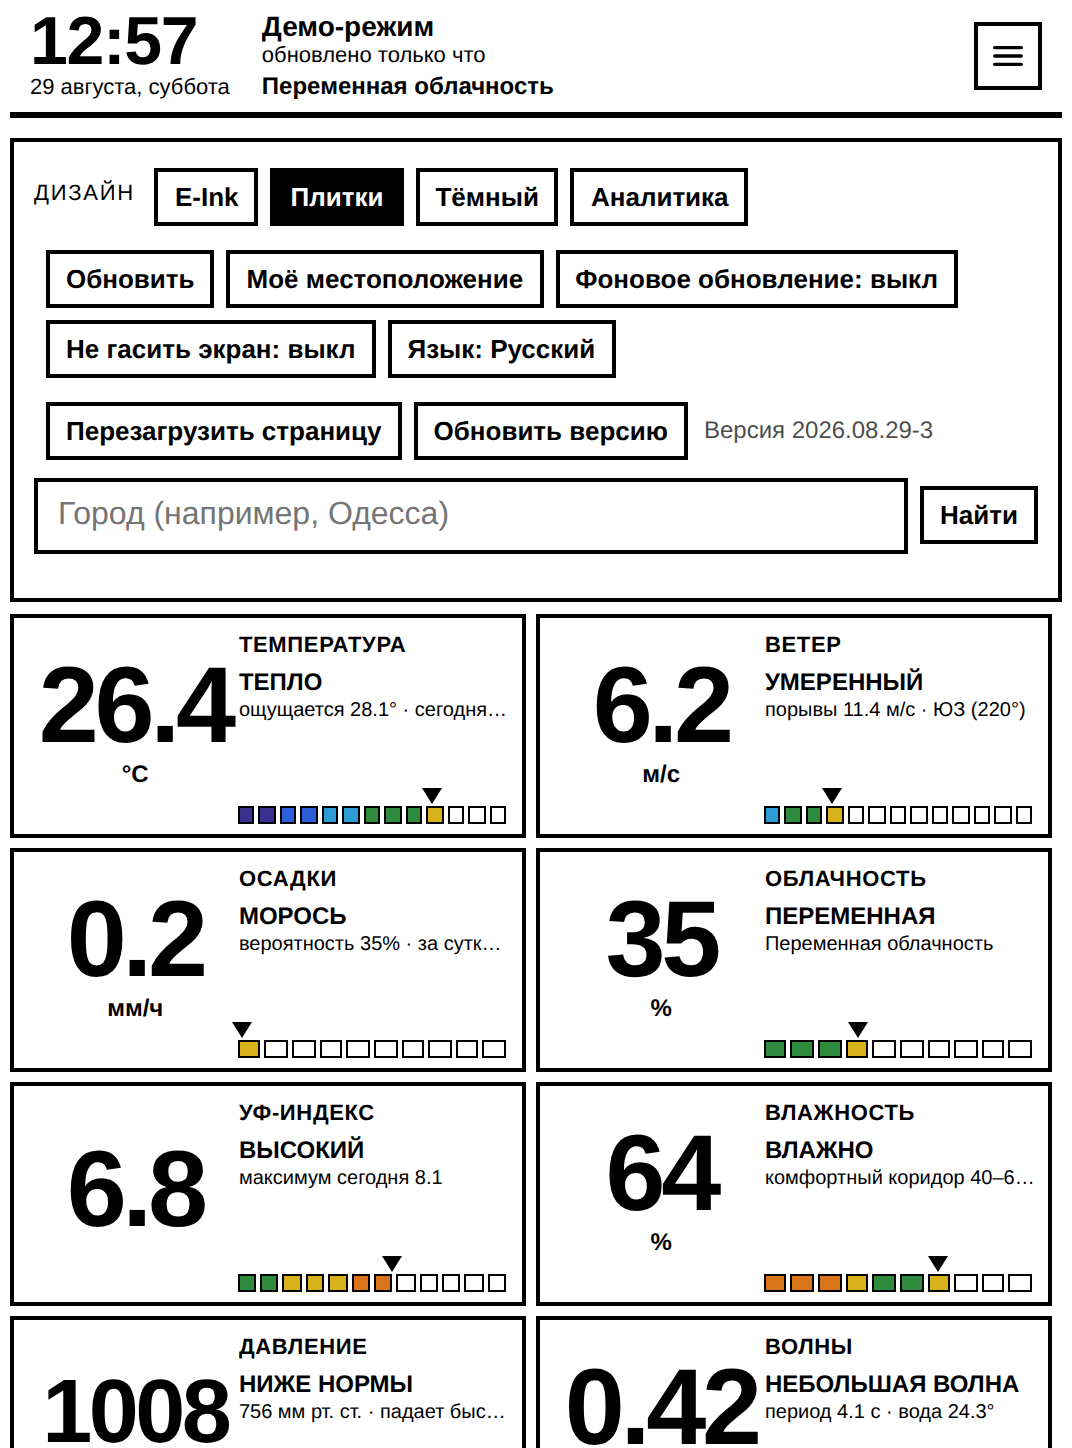
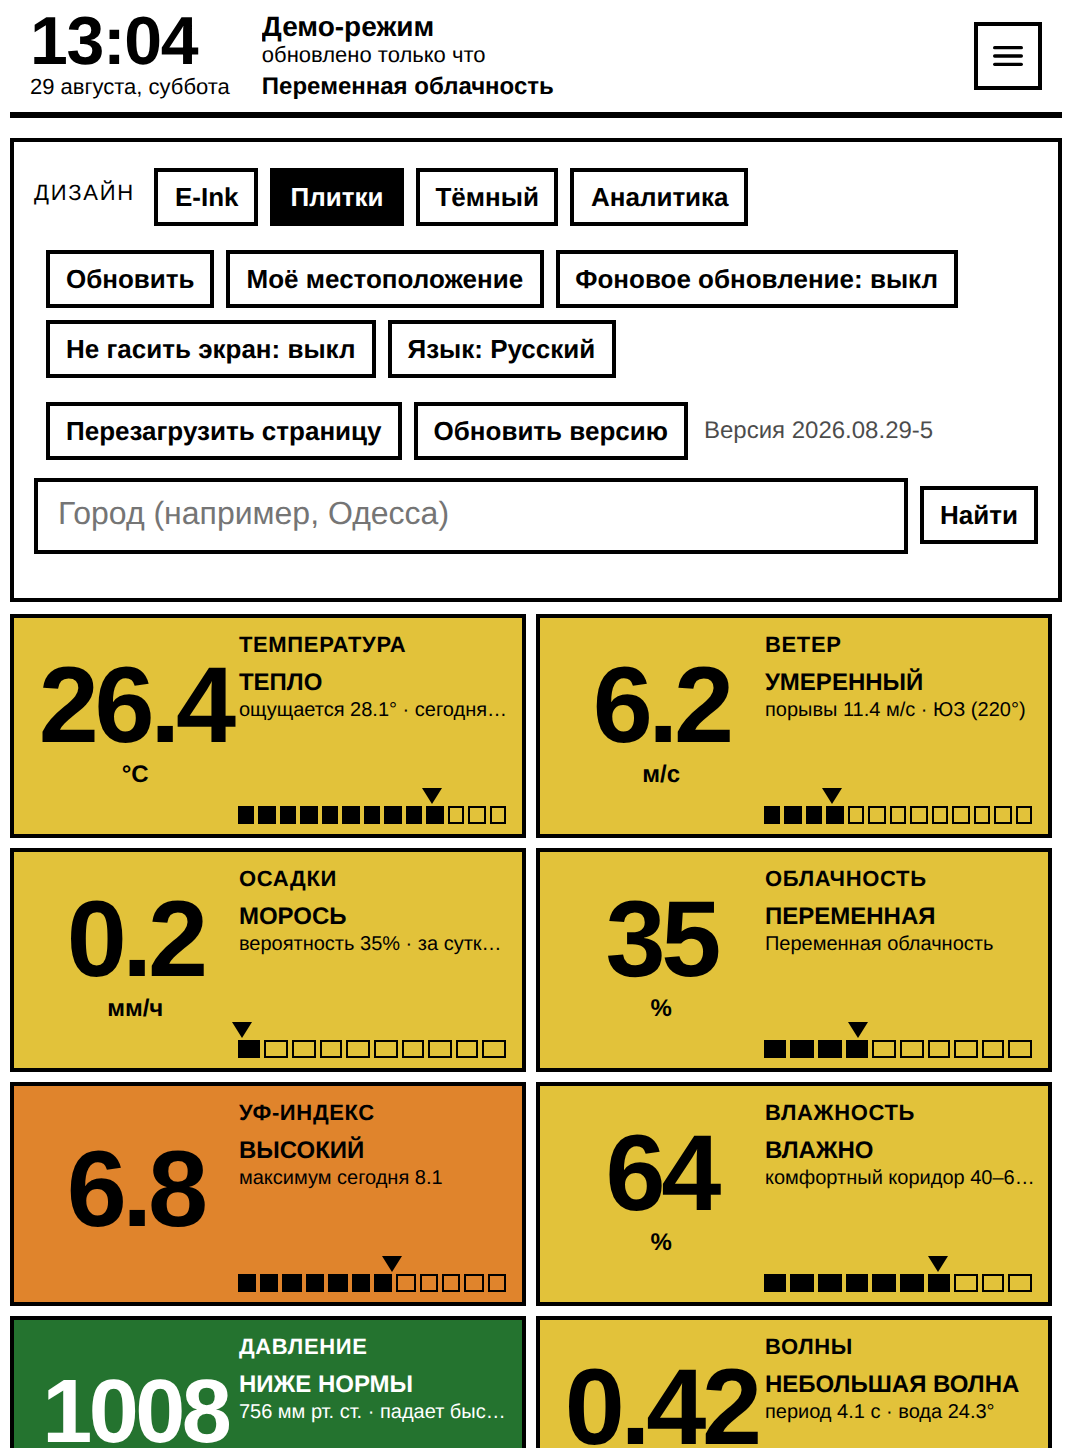
Fit every design on one phone screen and colour the tiles by comfort
A phone layout, loaded after the themes so it compacts whichever design is
active: below 520 px the cards go to two columns with tighter boxes and no
24-hour charts, which are what make a card three times taller than the reading
it carries. Short screens get one more step of density. Measured from 320x568 to
430x932, all four designs now fit with headroom; e-ink readers stay on the roomy
layout with the charts.

Tiles are also washed in the colour of their comfort band, with the text
flipping to white on the dark grounds — every background/text pair clears WCAG
AA for the small labels, and most reach AAA. On a coloured ground the slider
would lose its filled part to the tile, so it goes monochrome: filled segments
and the marker take the text colour, empty ones are only outlined, and the old
band palette for segments is gone.

Claude-Session: https://claude.ai/code/session_013SbFinGuhw9MJ6FtXFwKse

diff --git a/css/compact.css b/css/compact.css
@@ -1,0 +1,82 @@
+/* Phone mode: everything on one screen, no scrolling.
+   Loaded after every theme, so at equal specificity these rules win. Each
+   design keeps its own colour, borders and typography — what changes is the
+   density: two columns, tighter boxes, and no 24 h charts, which are what make
+   a card three times taller than the reading it carries.
+   The 520 px cut-off keeps e-ink readers (536 px and up) on the roomy layout. */
+
+@media (max-width: 520px) {
+
+  body[data-theme] .app { padding: 6px 6px 8px 6px; }
+
+  /* A compact header: the clock still reads across the room, the rest shrinks. */
+  body[data-theme] .topbar { padding: 0 8px 4px 8px; }
+  body[data-theme] .clock { font-size: 34px; }
+  body[data-theme] .date { font-size: 10px; }
+  body[data-theme] .place { font-size: 14px; }
+  body[data-theme] .updated { font-size: 10px; }
+  body[data-theme] .cond { font-size: 11px; }
+  body[data-theme] .btn-icon svg { width: 20px; height: 20px; }
+
+  body[data-theme] .cards { display: flex; flex-wrap: wrap; margin-top: 5px; }
+  body[data-theme] .card {
+    flex: 1 1 47%; min-width: 0; max-width: 50%;
+    margin: 0 4px 4px 0; padding: 3px 6px 5px 6px;
+  }
+
+  /* The charts and the scale end labels are the first things to go. */
+  body[data-theme] .spark,
+  body[data-theme] .spark-cap,
+  body[data-theme] .scale-ends,
+  body[data-theme] .card-badge { display: none; }
+
+  body[data-theme] .seg { height: 8px; margin-right: 2px; }
+  body[data-theme] .scale { padding-top: 8px; }
+  body[data-theme] .scale-marker {
+    border-top-width: 7px; border-left-width: 4px; border-right-width: 4px; margin-left: -4px;
+  }
+
+  /* Everything but Tiles shares one compact card; Tiles keeps its own layout,
+     where the number already owns the left half of the cell. */
+  body[data-theme]:not([data-theme="tiles"]) .card-head { display: block; }
+  body[data-theme]:not([data-theme="tiles"]) .card-title { font-size: 10px; letter-spacing: 0.04em; }
+  body[data-theme]:not([data-theme="tiles"]) .card-value-row { margin-top: -1px; }
+  body[data-theme]:not([data-theme="tiles"]) .card-value { font-size: 27px; line-height: 1.05; }
+  body[data-theme]:not([data-theme="tiles"]) .card-unit { font-size: 11px; margin-left: 4px; }
+  body[data-theme]:not([data-theme="tiles"]) .card-band { font-size: 11px; margin-top: 3px; }
+  body[data-theme]:not([data-theme="tiles"]) .card-note {
+    font-size: 10px; margin-top: 1px;
+    white-space: nowrap; overflow: hidden; text-overflow: ellipsis;
+  }
+
+  /* Tiles: shorter cells and a smaller number, so the grid clears the shortest
+     phone screens too. */
+  body[data-theme="tiles"] .card { min-height: 88px; }
+  body[data-theme="tiles"] .card-value { font-size: 34px; }
+  body[data-theme="tiles"] .card[data-metric="pressure"] .card-value { font-size: 28px; }
+
+  /* Design-specific trimmings that only make sense at this density. */
+  body[data-theme="night"] .card[data-metric="temp"] { flex: 1 1 47%; }
+  body[data-theme="night"] .card[data-metric="temp"] .card-value { font-size: 27px; }
+  body[data-theme="night"] .topbar { padding: 8px 10px; border-radius: 14px; }
+  body[data-theme="night"] .card { border-radius: 12px; }
+  body[data-theme="paper"] .card { border-left-width: 3px; padding-left: 7px; }
+  body[data-theme="eink"] .card { border-width: 2px; }
+
+  body[data-theme] .footbar { font-size: 10px; }
+
+  /* Short screens need one more notch of density to clear the fold. */
+  @media (max-height: 660px) {
+    body[data-theme] .clock { font-size: 30px; }
+    body[data-theme] .card { margin: 0 3px 3px 0; padding: 2px 5px 4px 5px; }
+    body[data-theme] .seg { height: 7px; }
+    body[data-theme] .scale { padding-top: 7px; }
+    body[data-theme]:not([data-theme="tiles"]) .card-value { font-size: 24px; }
+    body[data-theme]:not([data-theme="tiles"]) .card-band { font-size: 10px; margin-top: 2px; }
+    body[data-theme]:not([data-theme="tiles"]) .card-note { font-size: 9px; }
+    body[data-theme="tiles"] .card { min-height: 78px; }
+    body[data-theme="tiles"] .card-value { font-size: 30px; }
+    body[data-theme="tiles"] .card[data-metric="pressure"] .card-value { font-size: 25px; }
+    body[data-theme="night"] .topbar { padding: 6px 10px; }
+  }
+}

diff --git a/css/theme-tiles.css b/css/theme-tiles.css
@@ -79,17 +79,30 @@ body[data-theme="tiles"] .scale-marker {
   margin-left: -5px; border-top-color: #000;
 }
 
+/* Each tile is washed in the colour of its comfort band, so the screen reads at
+   a glance before any number does. Text flips to white on the dark grounds and
+   stays black on the light ones — every pair clears WCAG AA (4.5:1) for the
+   small labels, and most reach AAA. */
+body[data-theme="tiles"] .lv-deep-card { background: #3b2f8f; color: #ffffff; }
+body[data-theme="tiles"] .lv-cold-card { background: #2b5fd9; color: #ffffff; }
+body[data-theme="tiles"] .lv-calm-card { background: #17698f; color: #ffffff; }
+body[data-theme="tiles"] .lv-good-card { background: #24732f; color: #ffffff; }
+body[data-theme="tiles"] .lv-mid-card  { background: #e2c23a; color: #000000; }
+body[data-theme="tiles"] .lv-warn-card { background: #e0842c; color: #000000; }
+body[data-theme="tiles"] .lv-bad-card  { background: #c8341f; color: #ffffff; }
+body[data-theme="tiles"] .lv-crit-card { background: #6f1010; color: #ffffff; }
+body[data-theme="tiles"] .lv-none-card { background: #ffffff; color: #000000; }
+
+/* On a coloured ground the slider cannot use the band palette any more — the
+   filled part would vanish into the tile. It goes monochrome instead: filled
+   segments and the marker in the text colour, empty ones just outlined. */
+body[data-theme="tiles"] .card .seg { border-color: currentColor; }
+body[data-theme="tiles"] .card .seg-off { background: transparent; }
+body[data-theme="tiles"] .card .seg-on { background: currentColor; }
+body[data-theme="tiles"] .card .scale-marker { border-top-color: currentColor; }
+
 body[data-theme="tiles"] .footbar { font-size: 11px; border-top: 2px solid #000; padding-top: 3px; }
 body[data-theme="tiles"] .empty { border: 2px solid #000; }
-
-body[data-theme="tiles"] .seg-on.lv-deep { background: #3b2f8f; }
-body[data-theme="tiles"] .seg-on.lv-cold { background: #2b5fd9; }
-body[data-theme="tiles"] .seg-on.lv-calm { background: #2f9bd4; }
-body[data-theme="tiles"] .seg-on.lv-good { background: #2e8b3d; }
-body[data-theme="tiles"] .seg-on.lv-mid  { background: #d8b21a; }
-body[data-theme="tiles"] .seg-on.lv-warn { background: #d9741a; }
-body[data-theme="tiles"] .seg-on.lv-bad  { background: #c8341f; }
-body[data-theme="tiles"] .seg-on.lv-crit { background: #6f1010; }
 
 /* From this width the number column is wide enough for a much bigger step. */
 @media (min-width: 480px) {

diff --git a/sw.js b/sw.js
@@ -11,7 +11,7 @@ var SYNC_TAG = 'barogram-hourly';
 var SHELL = [
   './', 'index.html', 'manifest.webmanifest',
   'css/base.css', 'css/theme-eink.css', 'css/theme-night.css', 'css/theme-paper.css',
-  'css/theme-tiles.css',
+  'css/theme-tiles.css', 'css/compact.css',
   'js/i18n.js', 'js/util.js', 'js/store.js', 'js/metrics.js', 'js/scale.js',
   'js/weather.js', 'js/app.js',
   'icons/icon.svg', 'icons/icon-192.png', 'icons/icon-512.png'

diff --git a/js/app.js b/js/app.js
@@ -11,7 +11,7 @@
   var HOUR = 60 * 60 * 1000;
   /* Shown in the Place panel: on a full-screen browser it is the only way to
      tell whether a new build actually arrived. Bump it with every release. */
-  var APP_VERSION = '2026.08.29-4';
+  var APP_VERSION = '2026.08.29-5';
 
   var settings = Store.load();
   var demoMode = /[?&]demo=1/.test(location.search);

diff --git a/index.html b/index.html
@@ -17,6 +17,8 @@
 <link rel="stylesheet" href="css/theme-night.css">
 <link rel="stylesheet" href="css/theme-paper.css">
 <link rel="stylesheet" href="css/theme-tiles.css">
+<!-- Loaded last: on phones it compacts whichever design is active. -->
+<link rel="stylesheet" href="css/compact.css">
 </head>
 <body data-theme="eink">
 

diff --git a/README.md b/README.md
@@ -21,9 +21,13 @@ Four designs ship with the app and are cycled with the grid icon in the top bar.
    a two-column grid (three columns from 620 px). Inside each tile the number is
    as large as the cell allows and owns the left half over its full height, with
    the unit beneath it; the title, the band label and one clipped line of detail
-   sit in the top right, and the comfort slider runs along the bottom right. The
-   24-hour charts are dropped here — they are what pushes the last tiles below
-   the fold.
+   sit in the top right, and the comfort slider runs along the bottom right. Each
+   tile is washed in the colour of its comfort band, so the screen reads before
+   any number does — text flips to white on the dark grounds and stays black on
+   the light ones, every pair clearing WCAG AA for the small labels. On a
+   coloured ground the slider goes monochrome (filled segments in the text
+   colour), because the band palette would vanish into the tile. The 24-hour
+   charts are dropped here — they are what pushes the last tiles below the fold.
 3. **Night** (`night`) — for phones: two tiles per row, temperature across the
    full width, 18 px corners, a thin solid scale bar. The dark background is
    easy on an OLED panel and on the eyes at night.
@@ -107,6 +111,16 @@ stock PocketBook browser almost certainly does not support it; there the working
 setup is the app kept open with the wake lock on, refreshing on the page's own
 hourly timer.
 
+## On a phone
+
+Below 520 px every design switches to a compact layout so the whole set of
+readings fits on one screen with no scrolling: two columns, tighter boxes, and
+no 24-hour charts — a chart makes a card three times taller than the reading it
+carries. Short screens get one more notch of density. Each design keeps its own
+colour, borders and typography, only the density changes. Measured from 320×568
+to 430×932, all four designs fit with headroom; e-ink readers (536 px and wider)
+stay on the roomy layout with the charts.
+
 ## Language
 
 All strings live in `js/i18n.js`. English is the source language; Russian,
@@ -155,6 +169,7 @@ css/theme-eink.css      design 1
 css/theme-night.css     design 3
 css/theme-paper.css     design 4
 css/theme-tiles.css     design 2
+css/compact.css         phone layout: one screen, no scrolling (loaded last)
 js/i18n.js              all user-facing strings: English source + ru/uk/es locales
 js/util.js              helpers, XHR, formatting, weather codes
 js/store.js             settings and cache in localStorage
